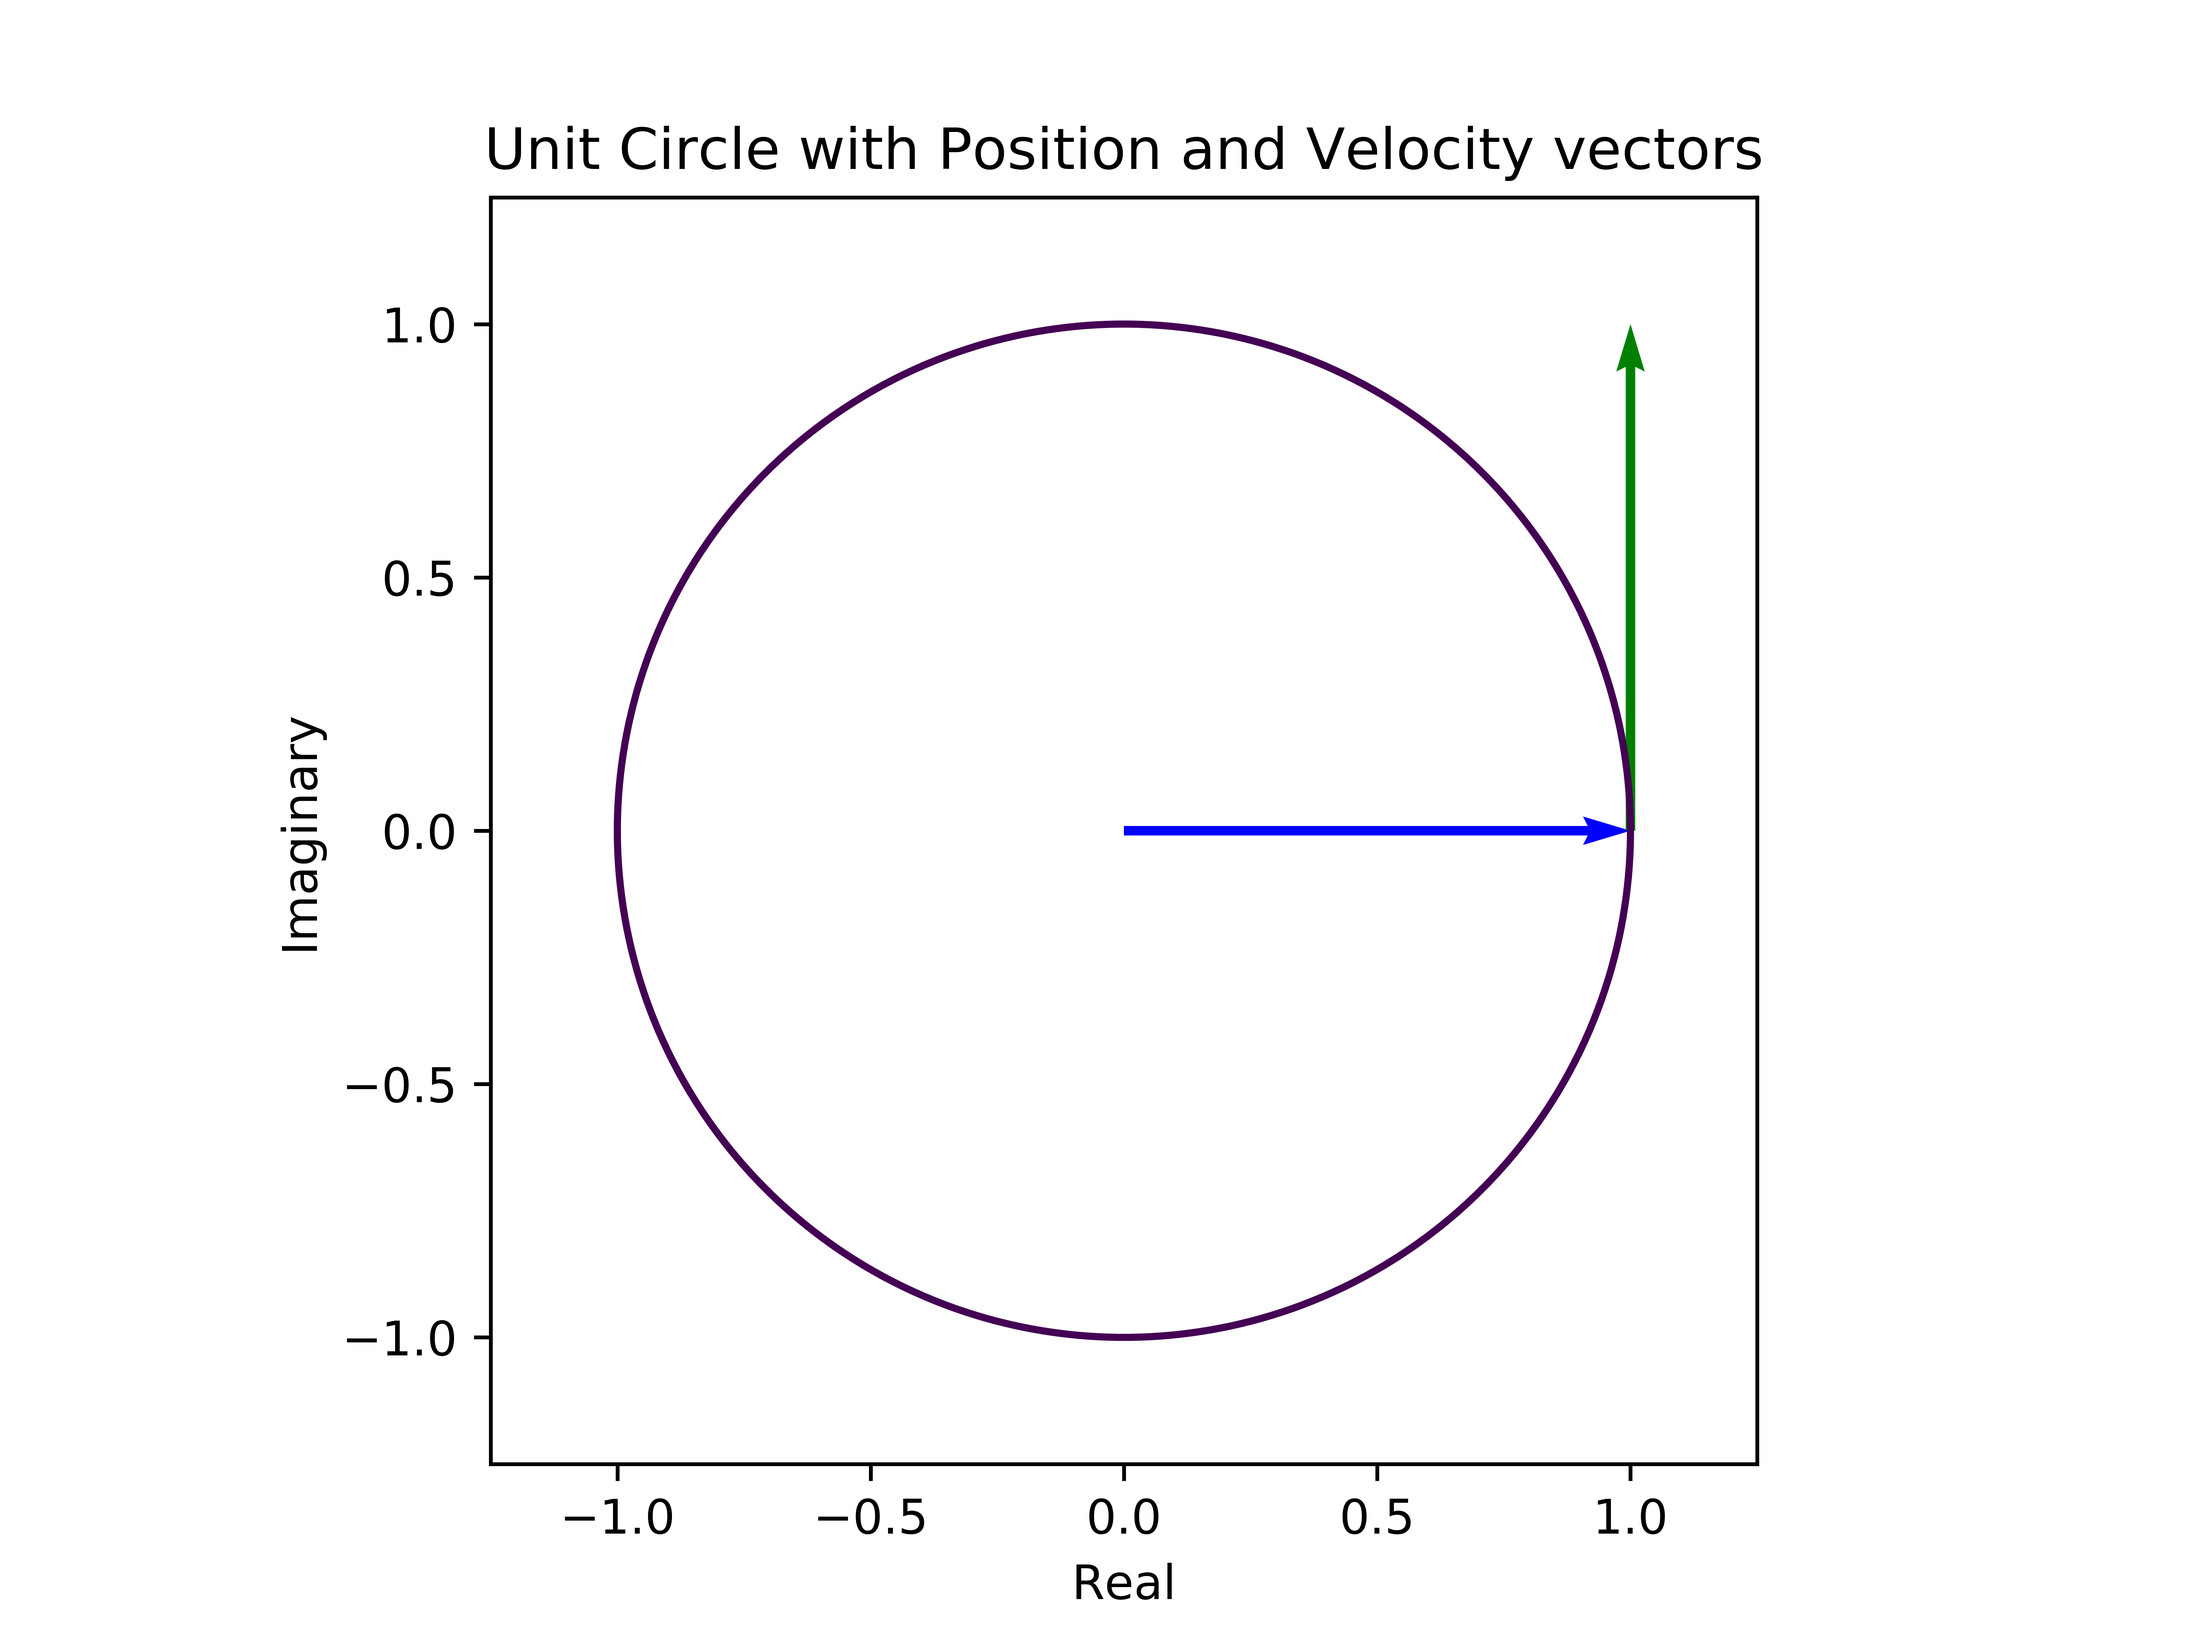
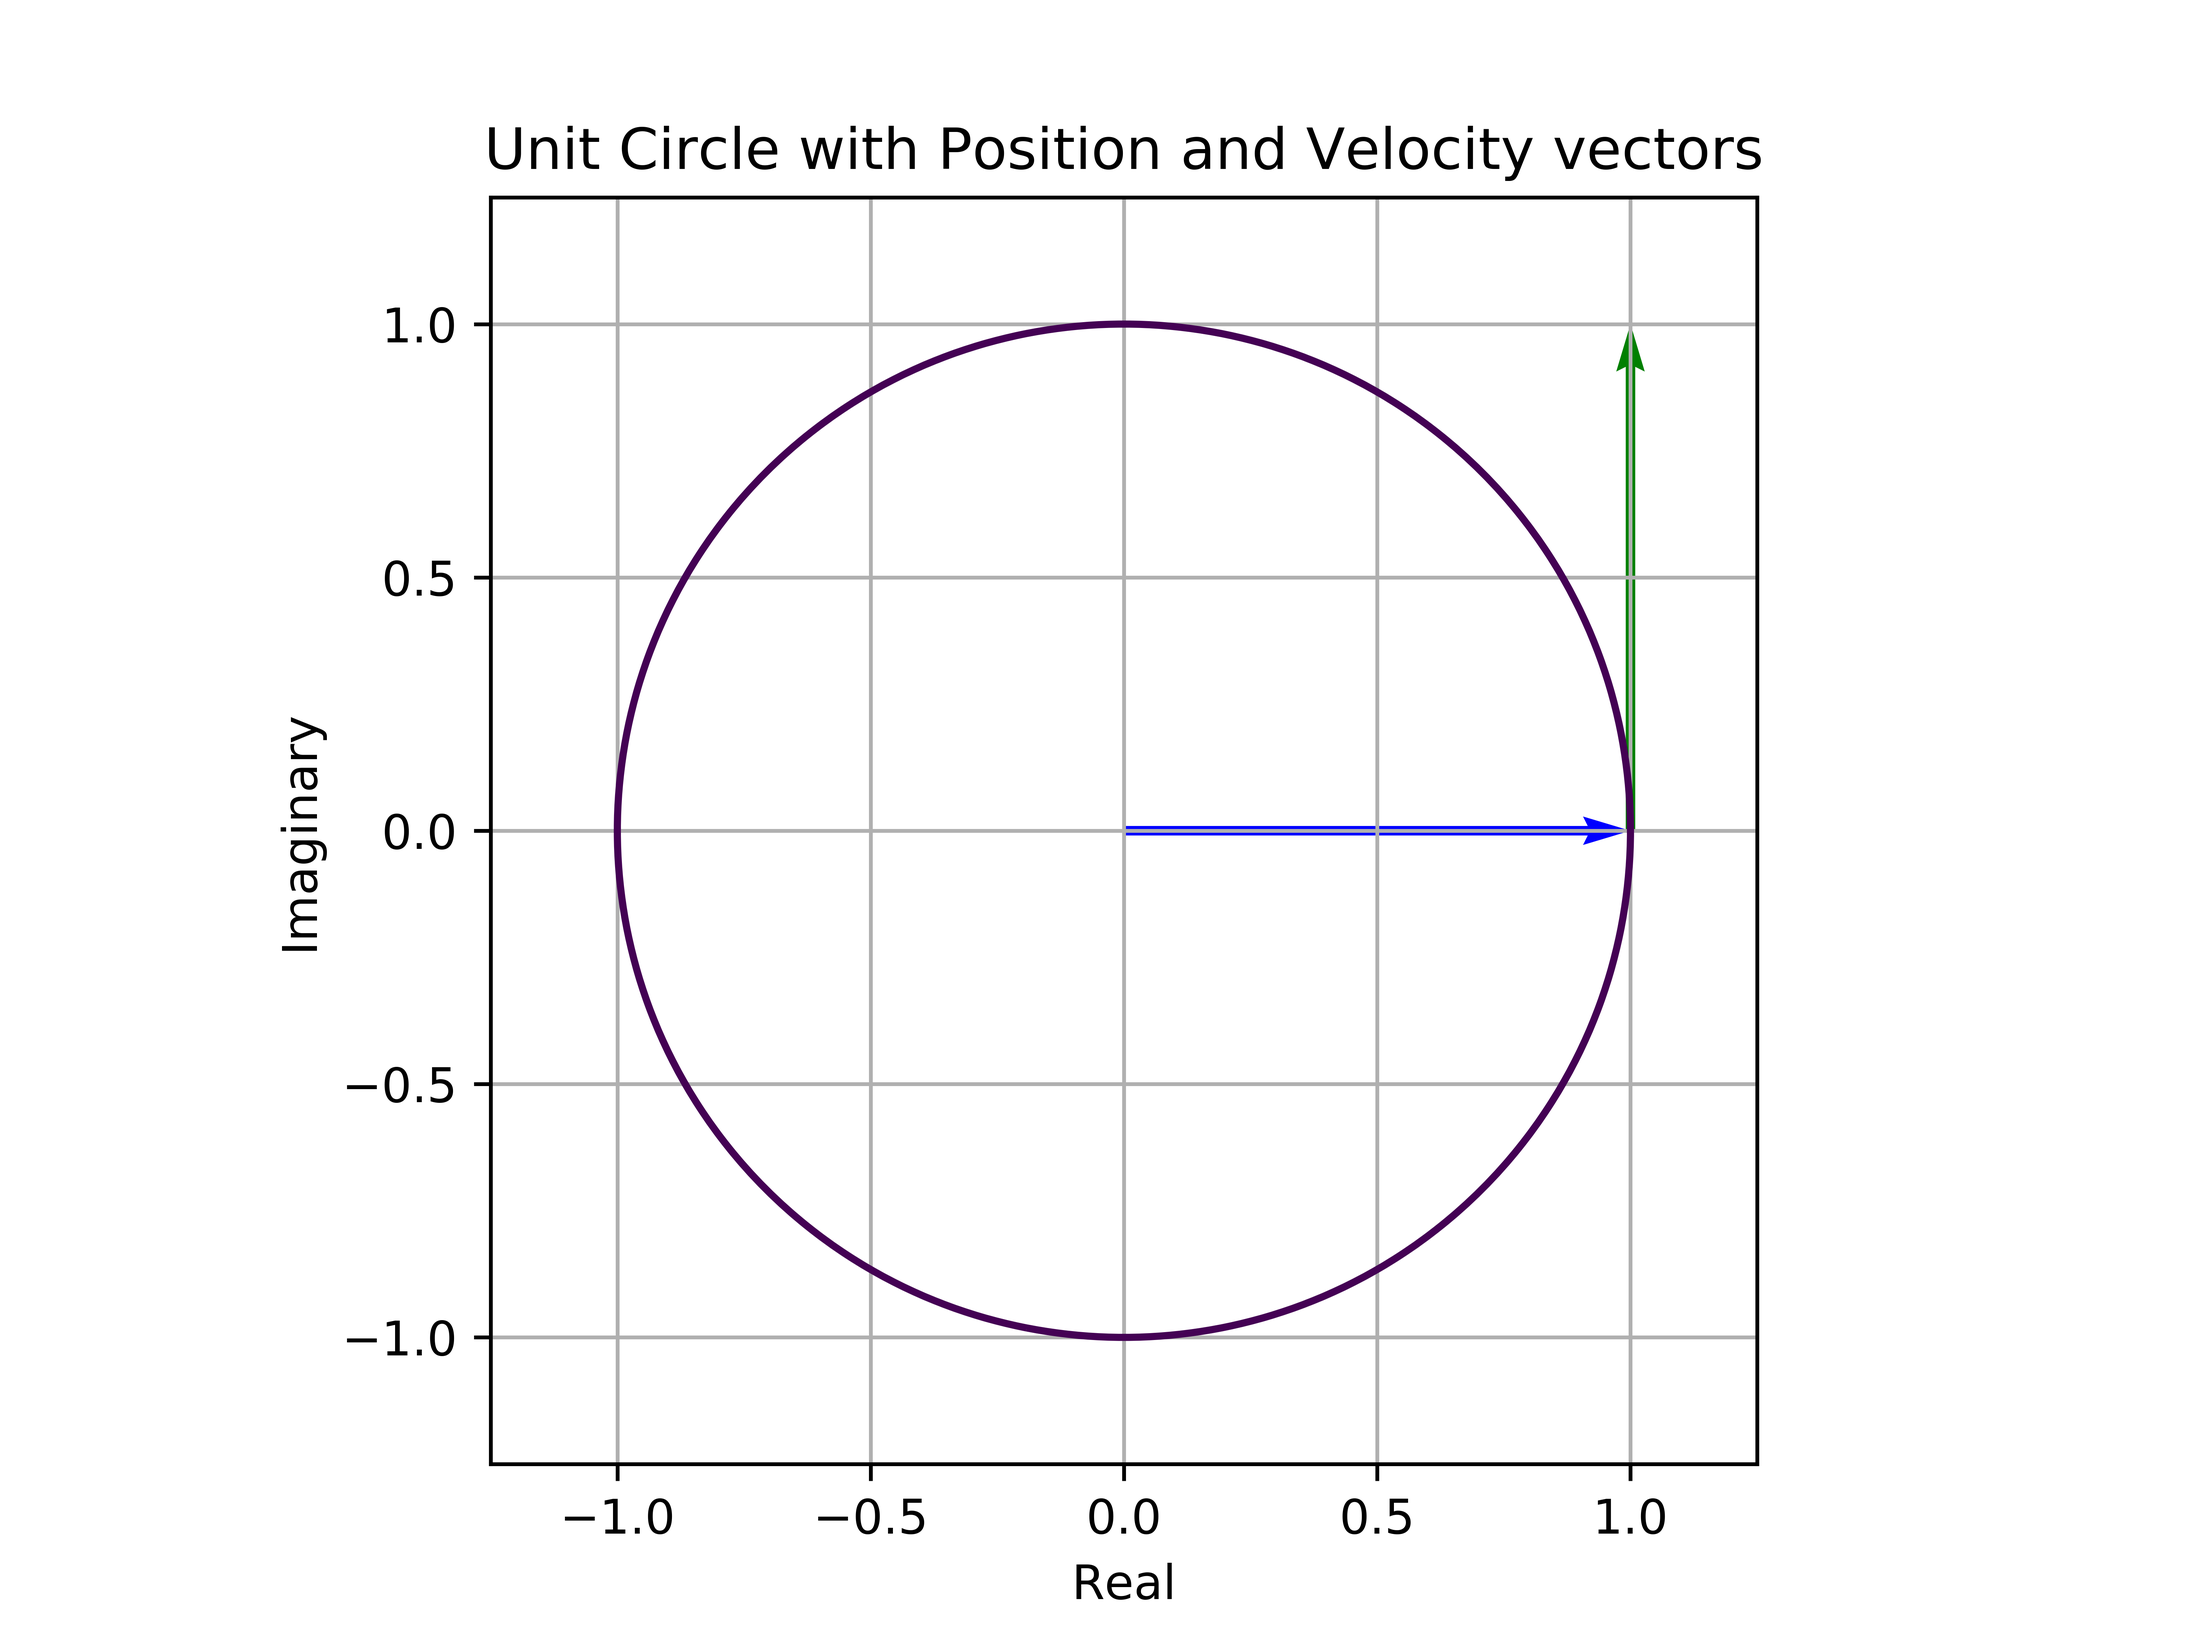
New graph with grid

diff --git a/_posts/2019-11-17-eulers-identity.md b/_posts/2019-11-17-eulers-identity.md
@@ -26,7 +26,7 @@ $$f(x) = f(x_0) + f’(x_0)(x - x_0) + \frac{f’’(x_0)}{2!}(x - x_0)^2 + \fra
 
 In a more concise notation, we have
 
-$$f(x) = \sum_{n=0}^\infty \frac {f^n(x - x_0)}{n!} (x - x_0)^n$$
+$$f(x) = \sum_{n=0}^\infty \frac {f^n(x_0)}{n!} (x - x_0)^n$$
 
 Notice that $$x_0$$ is the starting point of our approximation. Therefore, the Taylor series will provide the most accurate estimation of the original function around that point, and the farther we get away from $$x_0$$, the worse the approximation will be. 
 
